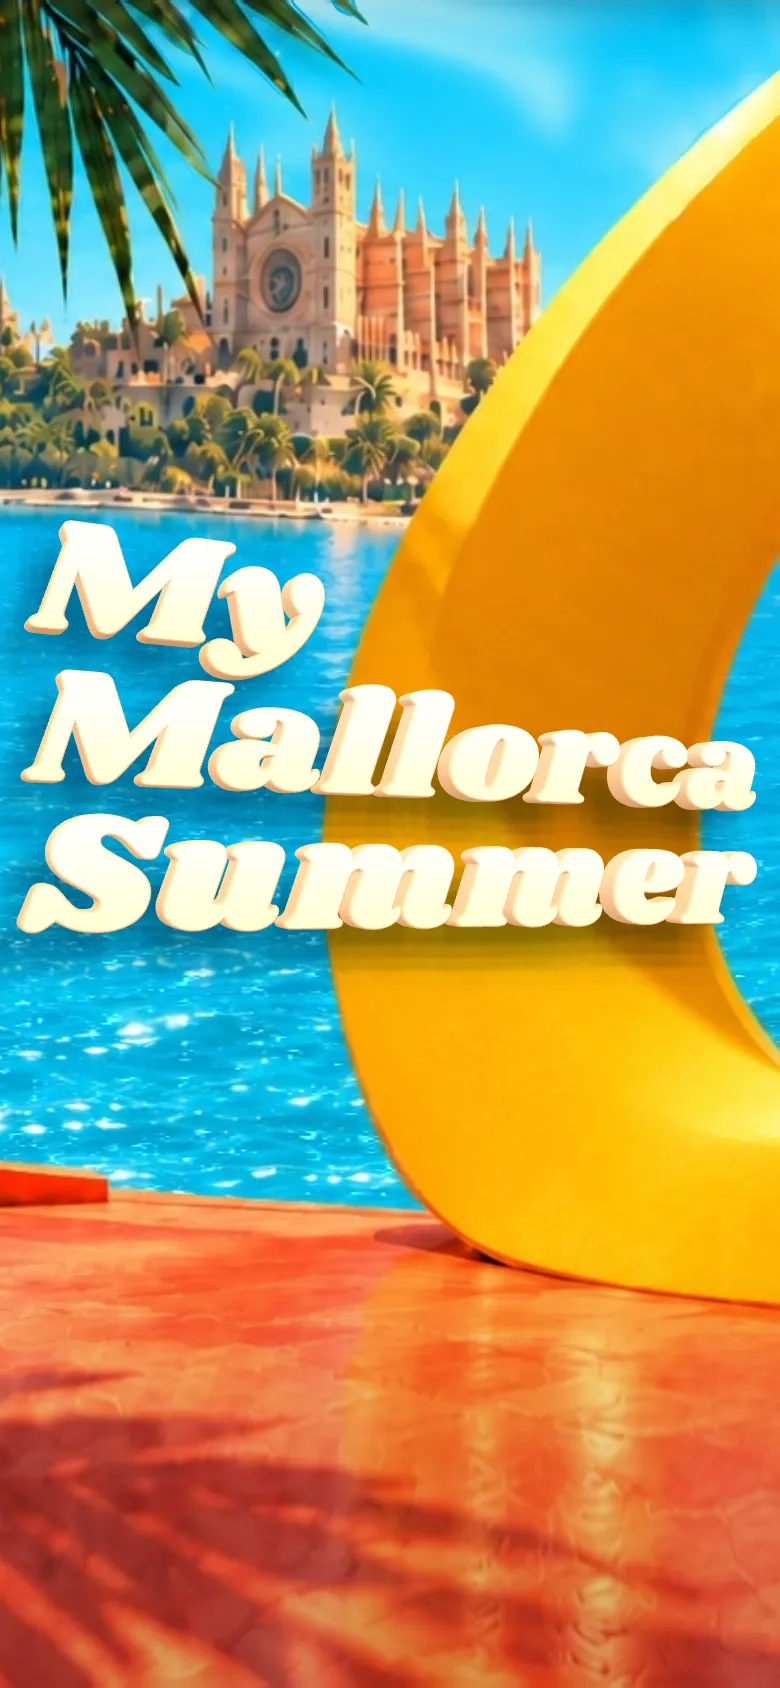
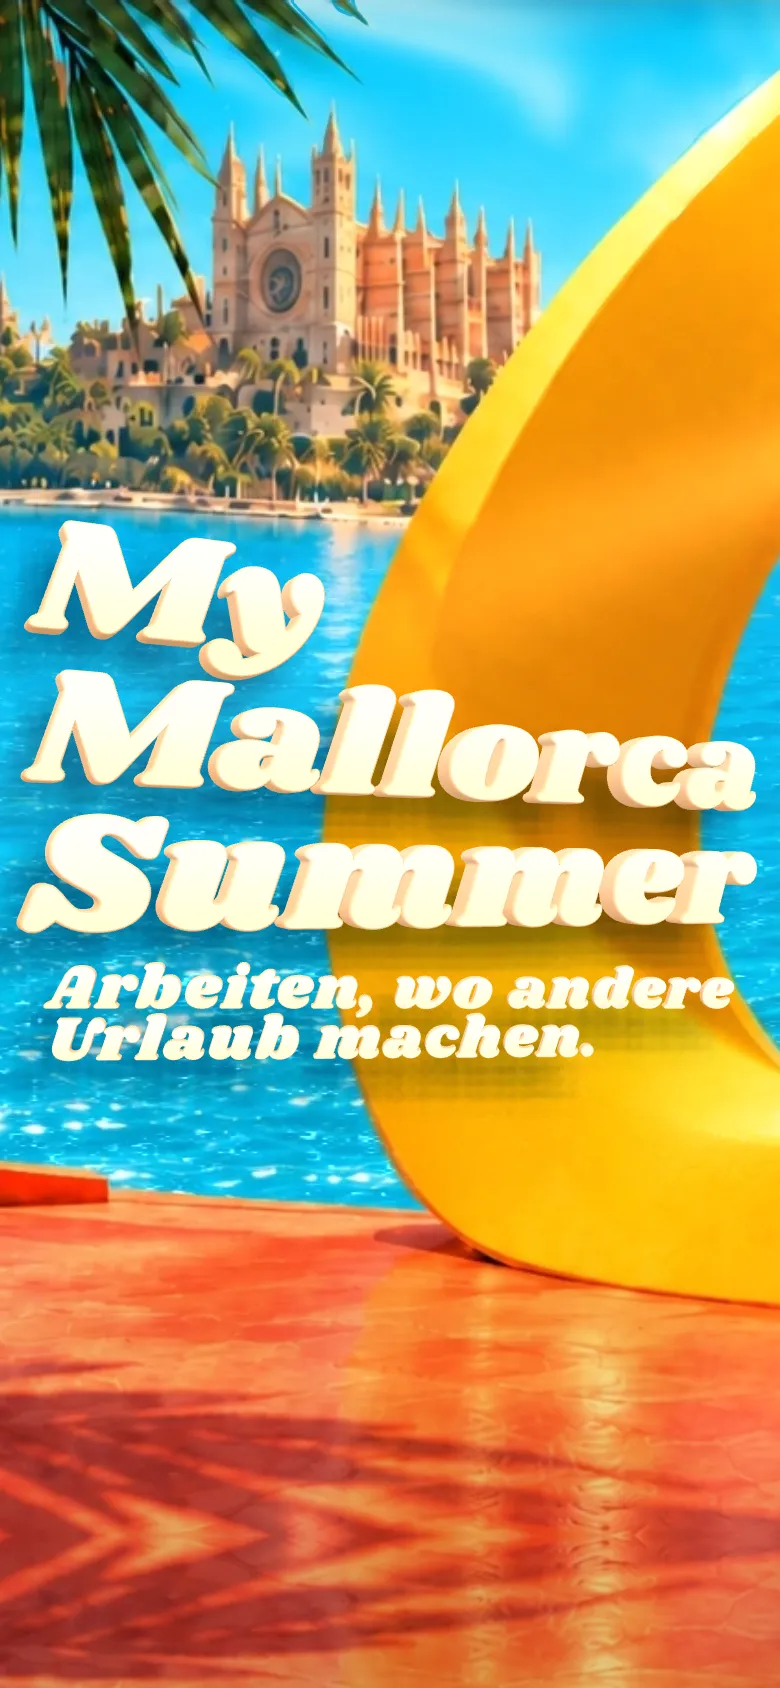
Vorschau: Handy mit 3D-Satz, Flug durch den Ring, Fingerspiel und Neigen

diff --git a/hero/hero.js b/hero/hero.js
@@ -30,7 +30,7 @@ const ORDER_A = ['work', 'comma', 'wo', 'and', 'fun', 'mach', 'end'], ORDER_B = 
 const edgeToVP = (x, y, to) => y + (VP[1] - y) / (VP[0] - x) * (to - x);
 const CLAIM_QUAD = [[116, 644], [1012, edgeToVP(116, 644, 1012)], [1014, edgeToVP(112, 682, 1014)], [112, 682]];
 const HIT_LINES = ['Treffer! Jetzt bewerben?', 'Schon wieder. Das ist ein Zeichen.', 'Drei Treffer! Jetzt aber bewerben.', 'Okay, du kannst zielen. Bewerben?'];
-const GULL_D = 650, GULL_S = 72, CLAIM_G = 5000;
+const GULL_D = 650, GULL_S = 72, CLAIM_G = 5000, CLAIM_LINE = 86;
 
 const params = new URLSearchParams(location.search);
 const debug = params.has('debug');
@@ -39,6 +39,7 @@ const hero = document.querySelector('.hero');
 const track = document.querySelector('.track');
 const canvas = document.querySelector('.gl');
 const bottom = document.querySelector('.bottom');
+const formLink = document.querySelector('.form-link');
 const reduced = matchMedia('(prefers-reduced-motion: reduce)');
 const finePointer = matchMedia('(hover: hover) and (pointer: fine)');
 const clamp = (v, a, b) => Math.min(b, Math.max(a, v));
@@ -204,7 +205,7 @@ const PLATE_FRAG = /* glsl */`
   uniform vec4 uPlaneT;
   uniform vec4 uView, uBall, uRipple, uPulse, uGullShadow;
   uniform vec2 uMouse, uRevealC, uShadowOff, uPtr, uC, uTarget;
-  uniform float uTime, uDawn, uReveal, uFlare, uGust, uStretch, uSheen, uZoom, uBlur, uHole, uFx, uBallShadow, uFlock;
+  uniform float uMirror, uTime, uDawn, uReveal, uFlare, uGust, uStretch, uSheen, uZoom, uBlur, uHole, uFx, uBallShadow, uFlock;
   varying vec2 vUv;
   float hash(vec2 p) { return fract(sin(dot(p, vec2(127.1, 311.7))) * 43758.5453); }
   // Das Muster für Wolken und Wasser kommt aus einer festen Vorlage. Eine reine Rechenformel rundet auf jeder Grafikkarte anders,
@@ -300,6 +301,8 @@ const PLATE_FRAG = /* glsl */`
       float qd = d < L ? d - (1. - uStretch) * d * d / (2. * L) : L * (1. + uStretch) / 2. + (d - L) * uStretch;
       q.y = 640. + qd; ext = max(0., q.y - 756.) / uStretch;
     }
+    // Im Hochformat läuft die Terrasse unten gespiegelt weiter, statt zu verschwimmen.
+    if (uMirror > .5 && q.y > 755.) q.y = 1510. - q.y;
     q = clamp(q, vec2(1.), vec2(1439., 755.));
     vec3 m = texture2D(tMaps, vec2(q.x / 1440., 1. - q.y / 756.)).rgb;
     float depth = m.r, water = m.g, ring = smoothstep(.72, .92, m.b), boat = smoothstep(.2, .42, m.b) * (1. - ring);
@@ -522,7 +525,7 @@ const S = { reveal: 0, dawn: 1, flare: 0, gust: 0, sheen: 0, glint: -1 };
 const ballQ = new THREE.Quaternion().setFromEuler(new THREE.Euler(0.55, -0.5, 0.25));
 const fly = { on: false, p: 0, s: 0, v: 0, k: 1, tx: RING_C.x, ty: RING_C.y };
 let mode = 'intro', intro = null, paused = false, visible = true, time = 0, last = 0, tempo = 1, lastBx = B.x, acc = 0, skipping = false, dprCap = 2, paceSum = 0, paceN = 0, confettiLive = 0;
-const pointer = { x: -999, y: -999, over: false, mx: 0, my: 0, sx: 0, sy: 0, px: W / 2, py: H / 2, vx: 0, lx: -999 };
+const pointer = { touch: false, x: -999, y: -999, over: false, mx: 0, my: 0, sx: 0, sy: 0, px: W / 2, py: H / 2, vx: 0, lx: -999 };
 const phys = { vx: 0, vy: 0, scored: false, wasIn: false, hist: [], down: null, hopCool: 0, sq: 0, sv: 0, idle: 7, grab: { x: 0, y: 0 }, homeV: 0 };
 let ripple = { x: 0, y: 0, t: 9 };
 const pulses = [], bits = [], tmpO = new THREE.Object3D();
@@ -706,8 +709,9 @@ function updateConfetti(dt) {
 
 // --- Der Satz: kleine 3D-Buchstaben, die auf der Terrasse stehen, in derselben Flucht wie der Schriftzug ---
 const claimV = new THREE.Vector3();
-function claimToStage(x, y) { claimV.set(x, y, claim.depth).applyMatrix4(claim.basis); return project(claimV); }
-function stageToClaim(x, y) { const h = claim.inv, w = h[2][0] * x + h[2][1] * y + h[2][2]; return { x: (h[0][0] * x + h[0][1] * y + h[0][2]) / w, y: (h[1][0] * x + h[1][1] * y + h[1][2]) / w }; }
+// Beide Umrechnungen laufen über den Bildausschnitt des Hochformats. Am Desktop ist er neutral.
+function claimToStage(x, y) { claimV.set(x, y, claim.depth).applyMatrix4(claim.basis); const s = project(claimV); return { x: comp.a * (s.x - comp.px) + comp.qx, y: comp.a * (s.y - comp.py) + comp.qy }; }
+function stageToClaim(sx, sy) { const x = (sx - comp.qx) / comp.a + comp.px, y = (sy - comp.qy) / comp.a + comp.py, h = claim.inv, w = h[2][0] * x + h[2][1] * y + h[2][2]; return { x: (h[0][0] * x + h[0][1] * y + h[0][2]) / w, y: (h[1][0] * x + h[1][1] * y + h[1][2]) / w }; }
 function buildClaim(font) {
   const size = 100, k = size / font.data.resolution, depth = claim.depth, geos = {};
   const geoOf = (ch) => {
@@ -728,7 +732,7 @@ function buildClaim(font) {
     for (const ch of text) {
       const mesh = new THREE.Mesh(geoOf(ch), [front, side]);
       const pivot = new THREE.Group(); pivot.add(mesh); pivot.visible = false; group.add(pivot);
-      const it = { key, ch, pivot, mesh, alt: null, x: 0, y: 0, jump: 0, jv: 0, s: 1, rz: 0, rzT: 0, rv: 0, spin: 0, press: 0, v: 0, goal: 0, wob: 0, wv: 0, sq: 0, sv: 0, sx: 0, sy: 0, on: false, xA: 0, xB: 0, air: false, up: false, at: 0, aT: 0, x0: 0, v0: 0, v1: 0, tx: 0, vy: 0, ox: 0, ov: 0 };
+      const it = { key, ch, pivot, mesh, alt: null, x: 0, y: 0, ly: 0, xP: 0, lyP: 0, jump: 0, jv: 0, s: 1, rz: 0, rzT: 0, rv: 0, spin: 0, press: 0, v: 0, goal: 0, wob: 0, wv: 0, sq: 0, sv: 0, sx: 0, sy: 0, on: false, xA: 0, xB: 0, air: false, up: false, at: 0, aT: 0, x0: 0, v0: 0, v1: 0, tx: 0, vy: 0, ox: 0, ov: 0 };
       t.items.push(it); claim.items.push(it);
     }
     claim.tok[key] = t;
@@ -751,12 +755,17 @@ function buildClaim(font) {
   };
   claim.w = flow(ORDER_A, false, 'xA');
   flow(ORDER_B, true, 'xB');
+  // Im Hochformat steht der Satz auf zwei Zeilen: „Arbeiten, wo andere“ und „Urlaub machen.“
+  const w1 = flow(['work', 'comma', 'wo', 'and'], false, 'xP'), w2 = flow(['fun', 'mach', 'end'], false, 'xP');
+  for (const key of ['work', 'comma', 'wo', 'and']) for (const it of claim.tok[key].items) it.lyP = CLAIM_LINE;
+  claim.wP = Math.max(w1, w2); claim.hP = CLAIM_LINE + 66.6;
   const rect = [[0, 66.6], [claim.w, 66.6], [claim.w, 0], [0, 0]];
   claim.inv = solveH(CLAIM_QUAD, rect);
   const base = basisFromQuad(CLAIM_QUAD, claim.w, 66.6, depth);
   // Gleich groß im Bild, aber näher an der Kamera: So steht der Satz wirklich vor dem Schriftzug.
   const far = -new THREE.Vector3(claim.w / 2, 33, depth).applyMatrix4(base).z;
   claim.basis = new THREE.Matrix4().makeScale(700 / far, 700 / far, 700 / far).multiply(base);
+  claim.basisA = claim.basis; claim.invA = claim.inv;
   group.userData = { basis: claim.basis, own: [], depth, w: 700 };
   group.matrix.copy(claim.basis);
   for (const it of claim.items) { it.x = it.xA; const s = claimToStage(it.xA, 26); it.sx = s.x; it.sy = s.y; }
@@ -1045,7 +1054,7 @@ function leaveGull() {
   gag.tl?.kill();
   gag.canHit = false; gag.onClaim = false;
   if (gag.rope) lastLetter();
-  rearrange('xA');
+  rearrange(homeSlot());
   spinSwap(false);
   Object.assign(gull.pose, { fold: 0, flapAmp: 1, flapRate: 12, tuck: 1, yaw: -0.5, pitch: 0.25, roll: 0.3, mouth: 0, wide: 0, lid: 0.2, brow: 0, cock: 0.55, smile: 0.7, shades: 1, puff: 0, crest: 0, gesture: 0, stare: 0, lookX: 0, headYaw: 0, headPitch: 0, blink: 1 });
   gag.tl = g.timeline({ onComplete: endGag }).to(P, { x: view.x0 + view.vw + 240, y: -120, duration: 1.8, ease: 'power1.in' }, 0);
@@ -1056,7 +1065,7 @@ function gullHit(nx = 0.4, ny = -0.9) {
   gag.tl?.kill();
   gag.canHit = false; gag.onClaim = false; gag.rope = false; gag.print = false; gag.nodes = [];
   // Die Buchstaben springen zurück, der Satz stimmt wieder.
-  rearrange('xA');
+  rearrange(homeSlot());
   if (claim.tok.work.items[0].alt.visible) spinSwap(false);
   say('Kreisch!', 1300);
   feathers.fire(x0, y0 - gag.s * 0.6, nx, ny, comp.on ? 0.72 : 1);
@@ -1131,7 +1140,7 @@ function endGag() {
   plateMat.uniforms.uGullShadow.value.w = 0;
 }
 function resetLetter(l) {
-  Object.assign(l, { x: l.xA, y: 0, jump: 0, jv: 0, rz: 0, rzT: 0, rv: 0, spin: 0, air: false, up: false, crouch: false, ox: 0, ov: 0 });
+  Object.assign(l, { x: l[homeSlot()], y: 0, jump: 0, jv: 0, rz: 0, rzT: 0, rv: 0, spin: 0, air: false, up: false, crouch: false, ox: 0, ov: 0 });
 }
 function abortGag() {
   const g = window.gsap;
@@ -1223,7 +1232,7 @@ function layout() {
   const dpr = Math.min(devicePixelRatio || 1, dprCap);
   renderer.setPixelRatio(dpr); renderer.setSize(w, h, false);
   glint.value.y = 1 / (w * dpr);
-  claim.on = !portrait;
+  claim.on = true;
   compose(portrait);
   measureSticker();
   measureWater();
@@ -1231,14 +1240,36 @@ function layout() {
   const u = plateMat.uniforms;
   u.uView.value.set(x0, y0, vw, vh);
   u.uShadowOff.value.set(14 / vw, 15 / vh);
-  u.uStretch.value = vh > H ? clamp(86 / (vh - 640 - 30), 0.22, 1) : 1;
+  u.uStretch.value = !portrait && vh > H ? clamp(86 / (vh - 640 - 30), 0.22, 1) : 1;
+  u.uMirror.value = portrait ? 1 : 0;
   const rw = Math.max(2, Math.round(w * dpr / 4)), rh = Math.max(2, Math.round(h * dpr / 4));
   rtA.setSize(rw, rh); rtB.setSize(rw, rh);
   blurMat.userData.rw = rw; blurMat.userData.rh = rh;
-  setFly(!portrait && !reduced.matches);
+  setFly(!reduced.matches);
+}
+const homeSlot = () => (comp.on ? 'xP' : 'xA');
+// Der Satz bekommt im Hochformat seine eigene Fläche unter dem Schriftzug, mit derselben Flucht nach rechts hinten.
+function claimLayout(portrait) {
+  if (!claim.group) return;
+  if (portrait) {
+    const v = view, L = v.x0 + v.vw * 0.06, R = v.x0 + v.vw * 0.94, T = comp.qy + 511 * comp.a / 2 + 18;
+    const hq = (R - L) * claim.hP / claim.wP, hr = hq * 0.9, tr = T + (hq - hr) * 0.45;
+    const inv = ([x, y]) => [(x - comp.qx) / comp.a + comp.px, (y - comp.qy) / comp.a + comp.py];
+    const quad = [[L, T], [R, tr], [R, tr + hr], [L, T + hq]].map(inv);
+    claim.inv = solveH(quad, [[0, claim.hP], [claim.wP, claim.hP], [claim.wP, 0], [0, 0]]);
+    const base = basisFromQuad(quad, claim.wP, claim.hP, claim.depth), far = -new THREE.Vector3(claim.wP / 2, claim.hP / 2, claim.depth).applyMatrix4(base).z;
+    claim.basis = new THREE.Matrix4().makeScale(700 / far, 700 / far, 700 / far).multiply(base);
+  } else { claim.basis = claim.basisA; claim.inv = claim.invA; }
+  claim.group.userData.basis = claim.basis;
+  for (const l of claim.items) {
+    if (!l.air) { l.x = l[homeSlot()]; l.y = 0; }
+    l.ly = portrait ? l.lyP : 0;
+    const p = claimToStage(l[homeSlot()], 26 + l.ly); l.sx = p.x; l.sy = p.y;
+  }
 }
 function compose(portrait) {
   const v = view;
+  if (comp.on !== portrait && gag.tl) abortGag();
   comp.on = portrait;
   comp.a = portrait ? Math.min(v.vw * 0.94 / 904, 0.5) : 1;
   comp.qx = portrait ? v.x0 + v.vw / 2 : comp.px;
@@ -1248,7 +1279,6 @@ function compose(portrait) {
   camL.setViewOffset(W, H, comp.px - (comp.qx - v.x0) / comp.a, comp.py - (comp.qy - v.y0) / comp.a, v.vw / comp.a, v.vh / comp.a);
   camL.updateProjectionMatrix();
   if (portrait) cam.layers.disable(1); else cam.layers.enable(1);
-  hero.style.setProperty('--claim-top', `${((comp.qy + 511 * comp.a / 2 - v.y0) * v.s + 8).toFixed(1)}px`);
   // Der Ball wird kleiner und liegt links vom festen Aufkleber.
   ballR = portrait ? clamp(v.vw * 0.125, 40, 58) : BALL_R;
   REST.x = portrait ? v.x0 + v.vw * 0.42 : 1128;
@@ -1256,6 +1286,7 @@ function compose(portrait) {
   if (mode !== 'intro' && mode !== 'free') { B.r = ballR; B.y = Math.min(B.y, REST.y); if (mode === 'rest') B.y = REST.y; }
   gag.s = GULL_S * (portrait ? 0.62 : 1);
   gull?.setSize(gag.s);
+  claimLayout(portrait);
   if (grip) { const g = ballR * 2.5 * v.s; grip.style.width = grip.style.height = `${g.toFixed(0)}px`; grip.style.margin = `${(-g / 2).toFixed(0)}px 0 0 ${(-g / 2).toFixed(0)}px`; }
 }
 function setFly(on) {
@@ -1287,6 +1318,9 @@ function updateFly(dt) {
   const fade = 1 - smooth(0, 0.12, p);
   bottom.style.opacity = fade.toFixed(3);
   bottom.style.visibility = fade < 0.01 ? 'hidden' : '';
+  formLink.style.opacity = bottom.style.opacity; formLink.style.visibility = bottom.style.visibility;
+  // Nach dem Flug liegt hinter der Kopfzeile Creme statt Himmel: Dann wird die Schrift dunkel.
+  root.classList.toggle('past', p > 0.62);
   canvas.style.pointerEvents = p > 0.6 ? 'none' : '';
   const gone = p > 0.985;
   canvas.style.visibility = gone ? 'hidden' : '';
@@ -1305,7 +1339,8 @@ function applyLetters() {
     const w = g.userData.w, dz = w * (1 - 1 / gain);
     // Die Zeilen weichen beim Näherkommen zur Seite aus und verlassen das Bild.
     const away = (fly.k - 1) * (li === 0 ? -130 : li === 1 ? -190 : 120), drop = (fly.k - 1) * (li === 0 ? -110 : li === 1 ? 90 : 170);
-    const dx = ((fly.tx - CX) / gain + CX - RING_C.x + away / gain) * w / F, dy = -((fly.ty - CY) / gain + CY - RING_C.y + drop / gain) * w / F;
+    const ka = comp.a, ftx = (fly.tx - comp.qx) / ka + comp.px, fty = (fly.ty - comp.qy) / ka + comp.py, rcx = (RING_C.x - comp.qx) / ka + comp.px, rcy = (RING_C.y - comp.qy) / ka + comp.py;
+    const dx = ((ftx - CX) / gain + CX - rcx + away / (gain * ka)) * w / F, dy = -((fty - CY) / gain + CY - rcy + drop / (gain * ka)) * w / F;
     g.visible = gain < 9 && (li < 3 || claim.on);
     tmpD.makeTranslation(fly.k > 1.0001 ? dx : 0, fly.k > 1.0001 ? dy : 0, dz);
     const par = li === 3 ? 1.5 : 2 + li * 1.2;
@@ -1315,7 +1350,7 @@ function applyLetters() {
   for (const l of claim.items) {
     const q = l.pivot, sq = Math.min(0.55, l.sq);
     q.visible = l.on;
-    q.position.set(l.x + l.ox, l.y + l.jump - l.press * 9, -l.press * 2);
+    q.position.set(l.x + l.ox, l.y + l.ly + l.jump - l.press * 9, -l.press * 2);
     q.rotation.set(0, l.spin, l.rz + l.wob);
     q.scale.set(l.s / Math.sqrt(1 - sq), l.s * (1 - sq), l.s);
   }
@@ -1453,10 +1488,10 @@ function pressLetters(h) {
       phys.vx *= drag; phys.vy *= phys.vy < 0 ? drag : Math.exp(-h * over * 0.02);
     }
   }
-  if (B.y + B.r < 610) return;
+  if (!comp.on && B.y + B.r < 610) return;
   for (const l of claim.items) {
     if (!l.on || l.air) continue;
-    const c = claimToStage(l.x, 26), dx = c.x + l.ox * 0.58 - B.x, d = Math.hypot(dx, c.y - B.y), reach = B.r + 8;
+    const c = claimToStage(l.x, 26 + l.ly), dx = c.x + l.ox * 0.58 - B.x, d = Math.hypot(dx, c.y - B.y), reach = B.r + 8;
     if (d >= reach || d === 0) continue;
     const over = reach - d;
     l.ov += (dx >= 0 ? 1 : -1) * over * 190 * h;
@@ -1772,7 +1807,12 @@ function playIntro() {
   // Im Hochformat steht das Bild sofort. Der Auftakt ist nur der Ball, der von oben durch den Schriftzug fällt.
   if (comp.on) {
     settle();
-    if (!reduced.matches && window.gsap && scrollY < 5) { Object.assign(B, { x: REST.x - view.vw * 0.08, y: -140 }); lastBx = B.x; phys.idle = 9; gag.next = 7; launch(view.vw * 0.05, 0); }
+    if (!reduced.matches && window.gsap && scrollY < 5) {
+      Object.assign(B, { x: REST.x - view.vw * 0.08, y: -140 }); lastBx = B.x; phys.idle = 9; gag.next = 7; launch(view.vw * 0.05, 0);
+      // Die Sonne blitzt im Ring auf, und ein Lichtstreif läuft über die Buchstaben.
+      window.gsap.fromTo(S, { flare: 1.05 }, { flare: 0.2, duration: 1.7, delay: 0.3, ease: 'power2.out' });
+      window.gsap.fromTo(S, { glint: -0.2 }, { glint: 1.4, duration: 1.5, delay: 0.75, ease: 'sine.inOut' });
+    }
     return;
   }
   if (reduced.matches || !window.gsap) { settle(); return; }
@@ -1818,7 +1858,7 @@ function initPointer() {
     const speed = Math.hypot(p.x - pointer.x, p.y - pointer.y);
     if (!still() && p.x < 470 && p.y < 360 && speed < 300) S.gust = Math.min(1, S.gust + speed * 0.004);
     pointer.x = p.x; pointer.y = p.y; pointer.mx = clamp(p.nx, -1, 1); pointer.my = clamp(p.ny, -1, 1);
-    pointer.over = e.pointerType !== 'touch' && e.target === canvas;
+    pointer.over = (e.pointerType !== 'touch' || pointer.touch) && e.target === canvas;
     if (mode === 'drag') {
       phys.grab.x = p.x; phys.grab.y = Math.min(p.y, FLOOR - B.r);
       phys.hist.push({ x: p.x, y: p.y, t: performance.now() }); if (phys.hist.length > 6) phys.hist.shift();
@@ -1827,11 +1867,25 @@ function initPointer() {
     }
   }, { passive: true });
   hero.addEventListener('pointerleave', () => { pointer.over = false; pointer.mx = 0; pointer.my = 0; });
+  if (!finePointer.matches) {
+    const base = { g: null, b: null };
+    addEventListener('deviceorientation', (e) => {
+      if (e.gamma == null || pointer.touch || still()) return;
+      if (base.g === null) { base.g = e.gamma; base.b = e.beta; }
+      // Die Ruhelage wandert langsam mit, so zählt nur die Bewegung, nicht wie man das Handy gerade hält.
+      base.g += (e.gamma - base.g) * 0.02; base.b += (e.beta - base.b) * 0.02;
+      pointer.mx = clamp((e.gamma - base.g) / 14, -1, 1); pointer.my = clamp((e.beta - base.b) / 14, -1, 1);
+    }, { passive: true });
+  }
   canvas.addEventListener('pointerdown', (e) => {
     const p = toStage(e);
     if (mode === 'intro') { skipIntro(); return; }
     if (gag.canHit && gull?.root.visible && Math.hypot(p.x - gag.P.x, p.y - (gag.P.y - gag.s * 0.6)) < gag.s * 0.85) { gullHit(); return; }
     if (p.x > 490 && p.x < 670 && p.y > 40 && p.y < 180) startle();
+    if (e.pointerType === 'touch') {
+      Object.assign(pointer, { touch: true, over: true, x: p.x, y: p.y, lx: p.x, px: p.x, py: p.y });
+      if (letters.some((l) => Math.hypot(l.sx - p.x, l.sy - p.y) < 70 * comp.a + 20)) impact(p.x, p.y, 0.26);
+    }
     if (nearBall(p)) { grabBall(e, p, canvas); return; }
     if (p.y > 275 && p.y < 610 && !inPoly(RING, p.x, p.y) && !(p.x > 1216 && p.y > 372)) ripple = { x: p.x, y: p.y, t: 0 };
   });
@@ -1845,8 +1899,9 @@ function initPointer() {
     if (performance.now() - b.t > 90) { vx *= 0.2; vy *= 0.2; }
     launch(vx, vy);
   };
-  canvas.addEventListener('pointerup', release);
-  canvas.addEventListener('pointercancel', release);
+  const lift = (e) => { if (e.pointerType === 'touch') { pointer.touch = false; setTimeout(() => { if (!pointer.touch) pointer.over = false; }, 160); } };
+  canvas.addEventListener('pointerup', (e) => { lift(e); release(); });
+  canvas.addEventListener('pointercancel', (e) => { lift(e); release(); });
   grip.addEventListener('pointerup', release);
   grip.addEventListener('pointercancel', release);
   addEventListener('wheel', skipIntro, { passive: true });
@@ -1918,7 +1973,7 @@ async function start() {
       uBall: { value: new THREE.Vector4() }, uBallShadow: { value: 0 }, uRipple: { value: new THREE.Vector4(0, 0, 0, 9) }, uMouse: { value: new THREE.Vector2() },
       uRevealC: { value: new THREE.Vector2(330, 700) }, uShadowOff: { value: new THREE.Vector2() }, uPtr: { value: new THREE.Vector2() },
       uC: { value: new THREE.Vector2(RING_C.x, RING_C.y) }, uTarget: { value: new THREE.Vector2(RING_C.x, RING_C.y) },
-      uStretch: { value: 1 }, uTime: { value: 0 }, uDawn: { value: 1 }, uReveal: { value: 0 }, uFlare: { value: 0 }, uGust: { value: 0 }, uSheen: { value: 0 },
+      uStretch: { value: 1 }, uMirror: { value: 0 }, uTime: { value: 0 }, uDawn: { value: 1 }, uReveal: { value: 0 }, uFlare: { value: 0 }, uGust: { value: 0 }, uSheen: { value: 0 },
       uZoom: { value: 1 }, uBlur: { value: 0 }, uHole: { value: 0 }, uFx: { value: 1 },
     },
   });

diff --git a/hero/hero.css b/hero/hero.css
@@ -106,6 +106,7 @@ a:focus-visible .f + .f { transform: rotateX(0); visibility: visible; transition
 .lead { position: absolute; left: clamp(20px, 3vw, 48px); top: clamp(14px, 1.7vw, 24px); display: flex; align-items: center; gap: 8px; color: var(--cream); text-shadow: 0 1px 10px rgba(0, 34, 44, .85), 0 0 3px rgba(0, 34, 44, .55); }
 .kicker { padding: 10px 0 14px; font-size: clamp(14px, 1.08vw, 17px); font-weight: 600; white-space: nowrap; }
 .js.fallback .kicker { display: none; }
+.past .lead, .past .menu-btn { color: var(--ink); text-shadow: none; transition: color 300ms ease; }
 .discover { --flip: var(--sun); position: relative; display: inline-flex; align-items: center; flex: none; gap: 12px; margin-left: auto; font: 400 clamp(16px, 1.42vw, 21px)/1 Shrikhand, Georgia, serif; padding: 6px 0; }
 .discover img { width: 26px; height: 26px; filter: drop-shadow(0 3px 4px rgba(60, 0, 0, .45)); animation: nudge 3.4s var(--key) infinite; }
 @keyframes nudge { 0%, 68%, 100% { transform: translateY(0) scale(1); } 76% { transform: translateY(-9px) scale(.96, 1.04); } 84% { transform: translateY(0) scale(1.1, .9); } 90% { transform: translateY(-3px); } 95% { transform: translateY(0); } }
@@ -176,7 +177,9 @@ a:focus-visible .f + .f { transform: rotateX(0); visibility: visible; transition
   .form-link { top: auto; right: auto; left: var(--m); bottom: calc(10px + var(--safe)); width: auto; min-height: 44px; display: inline-flex; align-items: center; padding: 0; text-align: left; font-size: clamp(14px, 3.6vw, 17px); }
   .hit { position: fixed; z-index: 20; top: auto; right: 12px; bottom: calc(var(--sticker) + 16px + var(--safe)); max-width: 74vw; white-space: normal; text-align: right; font-size: clamp(18px, 5vw, 26px); transform-origin: 100% 100%; }
   .bottom { inset: 0; display: block; padding: 0; text-shadow: none; }
-  .js:not(.fallback) .claim, .claim { position: absolute; left: var(--m); right: var(--m); top: var(--claim-top, 58%); width: auto; height: auto; overflow: visible; clip-path: none; white-space: normal; rotate: -1.6deg; transform-origin: 0 50%; }
+  /* Der Satz steht im Bild als 3D-Schrift und im Standbild. Im Dokument bleibt er als Text für Suchmaschinen und Screenreader. */
+  .js:not(.fallback) .claim, .claim { position: absolute; width: 1px; height: 1px; overflow: hidden; clip-path: inset(50%); white-space: nowrap; }
+  .fly .track { height: calc(100vh + 120vh); height: calc(100svh + 120vh); }
   .role { display: none; }
   .line { font-size: clamp(25px, 7.4vw, 46px); line-height: 1.08; color: var(--cream); text-wrap: balance; text-shadow: 0 2px 0 rgba(0, 54, 84, .45), 0 3px 16px rgba(0, 30, 54, .6); }
   .discover { position: absolute; left: var(--m); bottom: calc(52px + var(--safe)); margin: 0; min-height: 40px; font-size: clamp(17px, 4.6vw, 24px); text-shadow: 0 1px 12px rgba(70, 12, 0, .7); }
